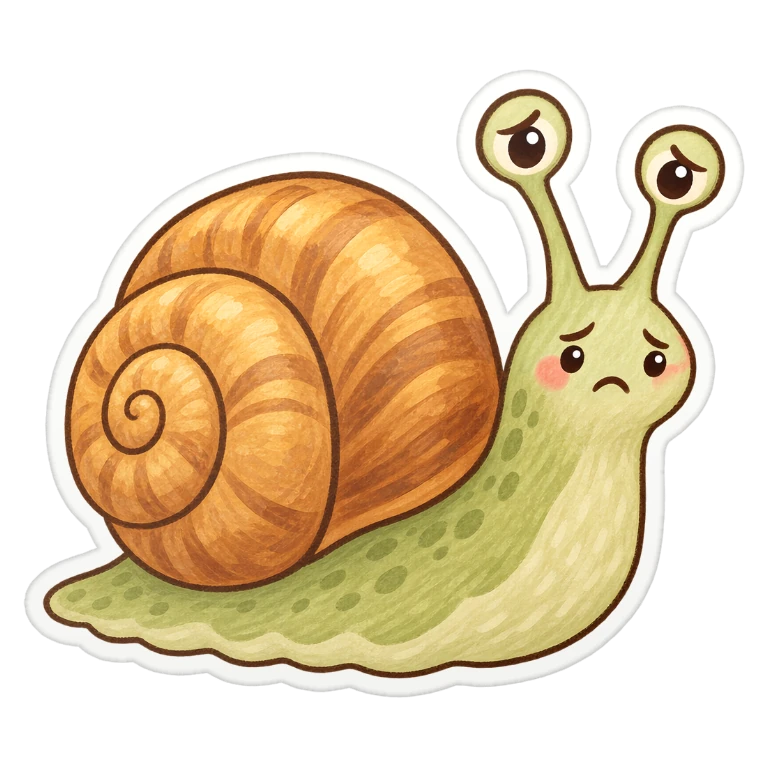
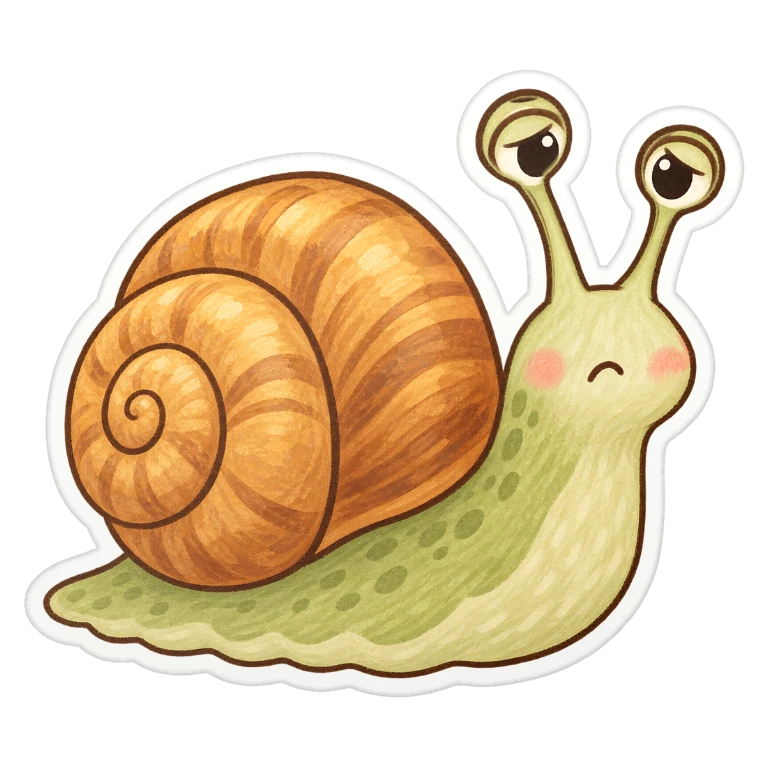
forest: butterfly rests side-on, perched rests, snail eyes only on its stalks (v44)
- butterfly.rest redrawn: she turns side-on, stands on her legs and
  folds her wings upright over her back, then turns back to open them;
  marked perched, as is owl.doze (stickeranim writes perched into the
  sidecar at install).
- The snail's four faces had eyes on its face as well as on its stalks;
  redone with a faceNote and a face box that takes in the whole stalk
  eyes (the old one cut through them and left doubled outlines).

diff --git a/tools/author/stickeranim/main.go b/tools/author/stickeranim/main.go
@@ -158,6 +158,9 @@ type animSpec struct {
 	// install writes them into the sidecar.
 	Flies bool     `json:"flies,omitempty"`
 	On    []string `json:"on,omitempty"`
+	// Perched (actions) says the character sits on something in it: a
+	// story lands a flyer before it plays it. Written at install too.
+	Perched bool `json:"perched,omitempty"`
 	// Register is how frames are laid on each other: "feet" (the default:
 	// each frame matched on the one before, its bottom kept on one ground
 	// line — a character sitting or walking), "body" (matched both ways —
@@ -740,6 +743,7 @@ func (r *renderer) assemble(a animSpec, raws []string, stickerPath string, hold 
 			out.Facing, out.Stride, out.Hops, out.Flies, out.On = a.Facing, a.Stride, a.Hops, a.Flies, a.On
 		}
 	}
+	out.Perched = a.kind() == manifest.KindAction && a.Perched
 	if a.Pause != nil {
 		out.Pause = &manifest.AnimationPause{Frame: a.Pause.Frame - 1, Shows: strings.TrimSpace(a.Pause.Shows)}
 	}
@@ -890,6 +894,9 @@ func runInstall(args []string) error {
 		}
 		if a.kind() == manifest.KindMove && a.Loop != nil {
 			side.Flies, side.On = a.Flies, a.On
+		}
+		if a.kind() == manifest.KindAction {
+			side.Perched = a.Perched
 		}
 		data, _ := json.MarshalIndent(side, "", "  ")
 		if err := os.WriteFile(dst+".json", append(data, '\n'), 0o644); err != nil {
